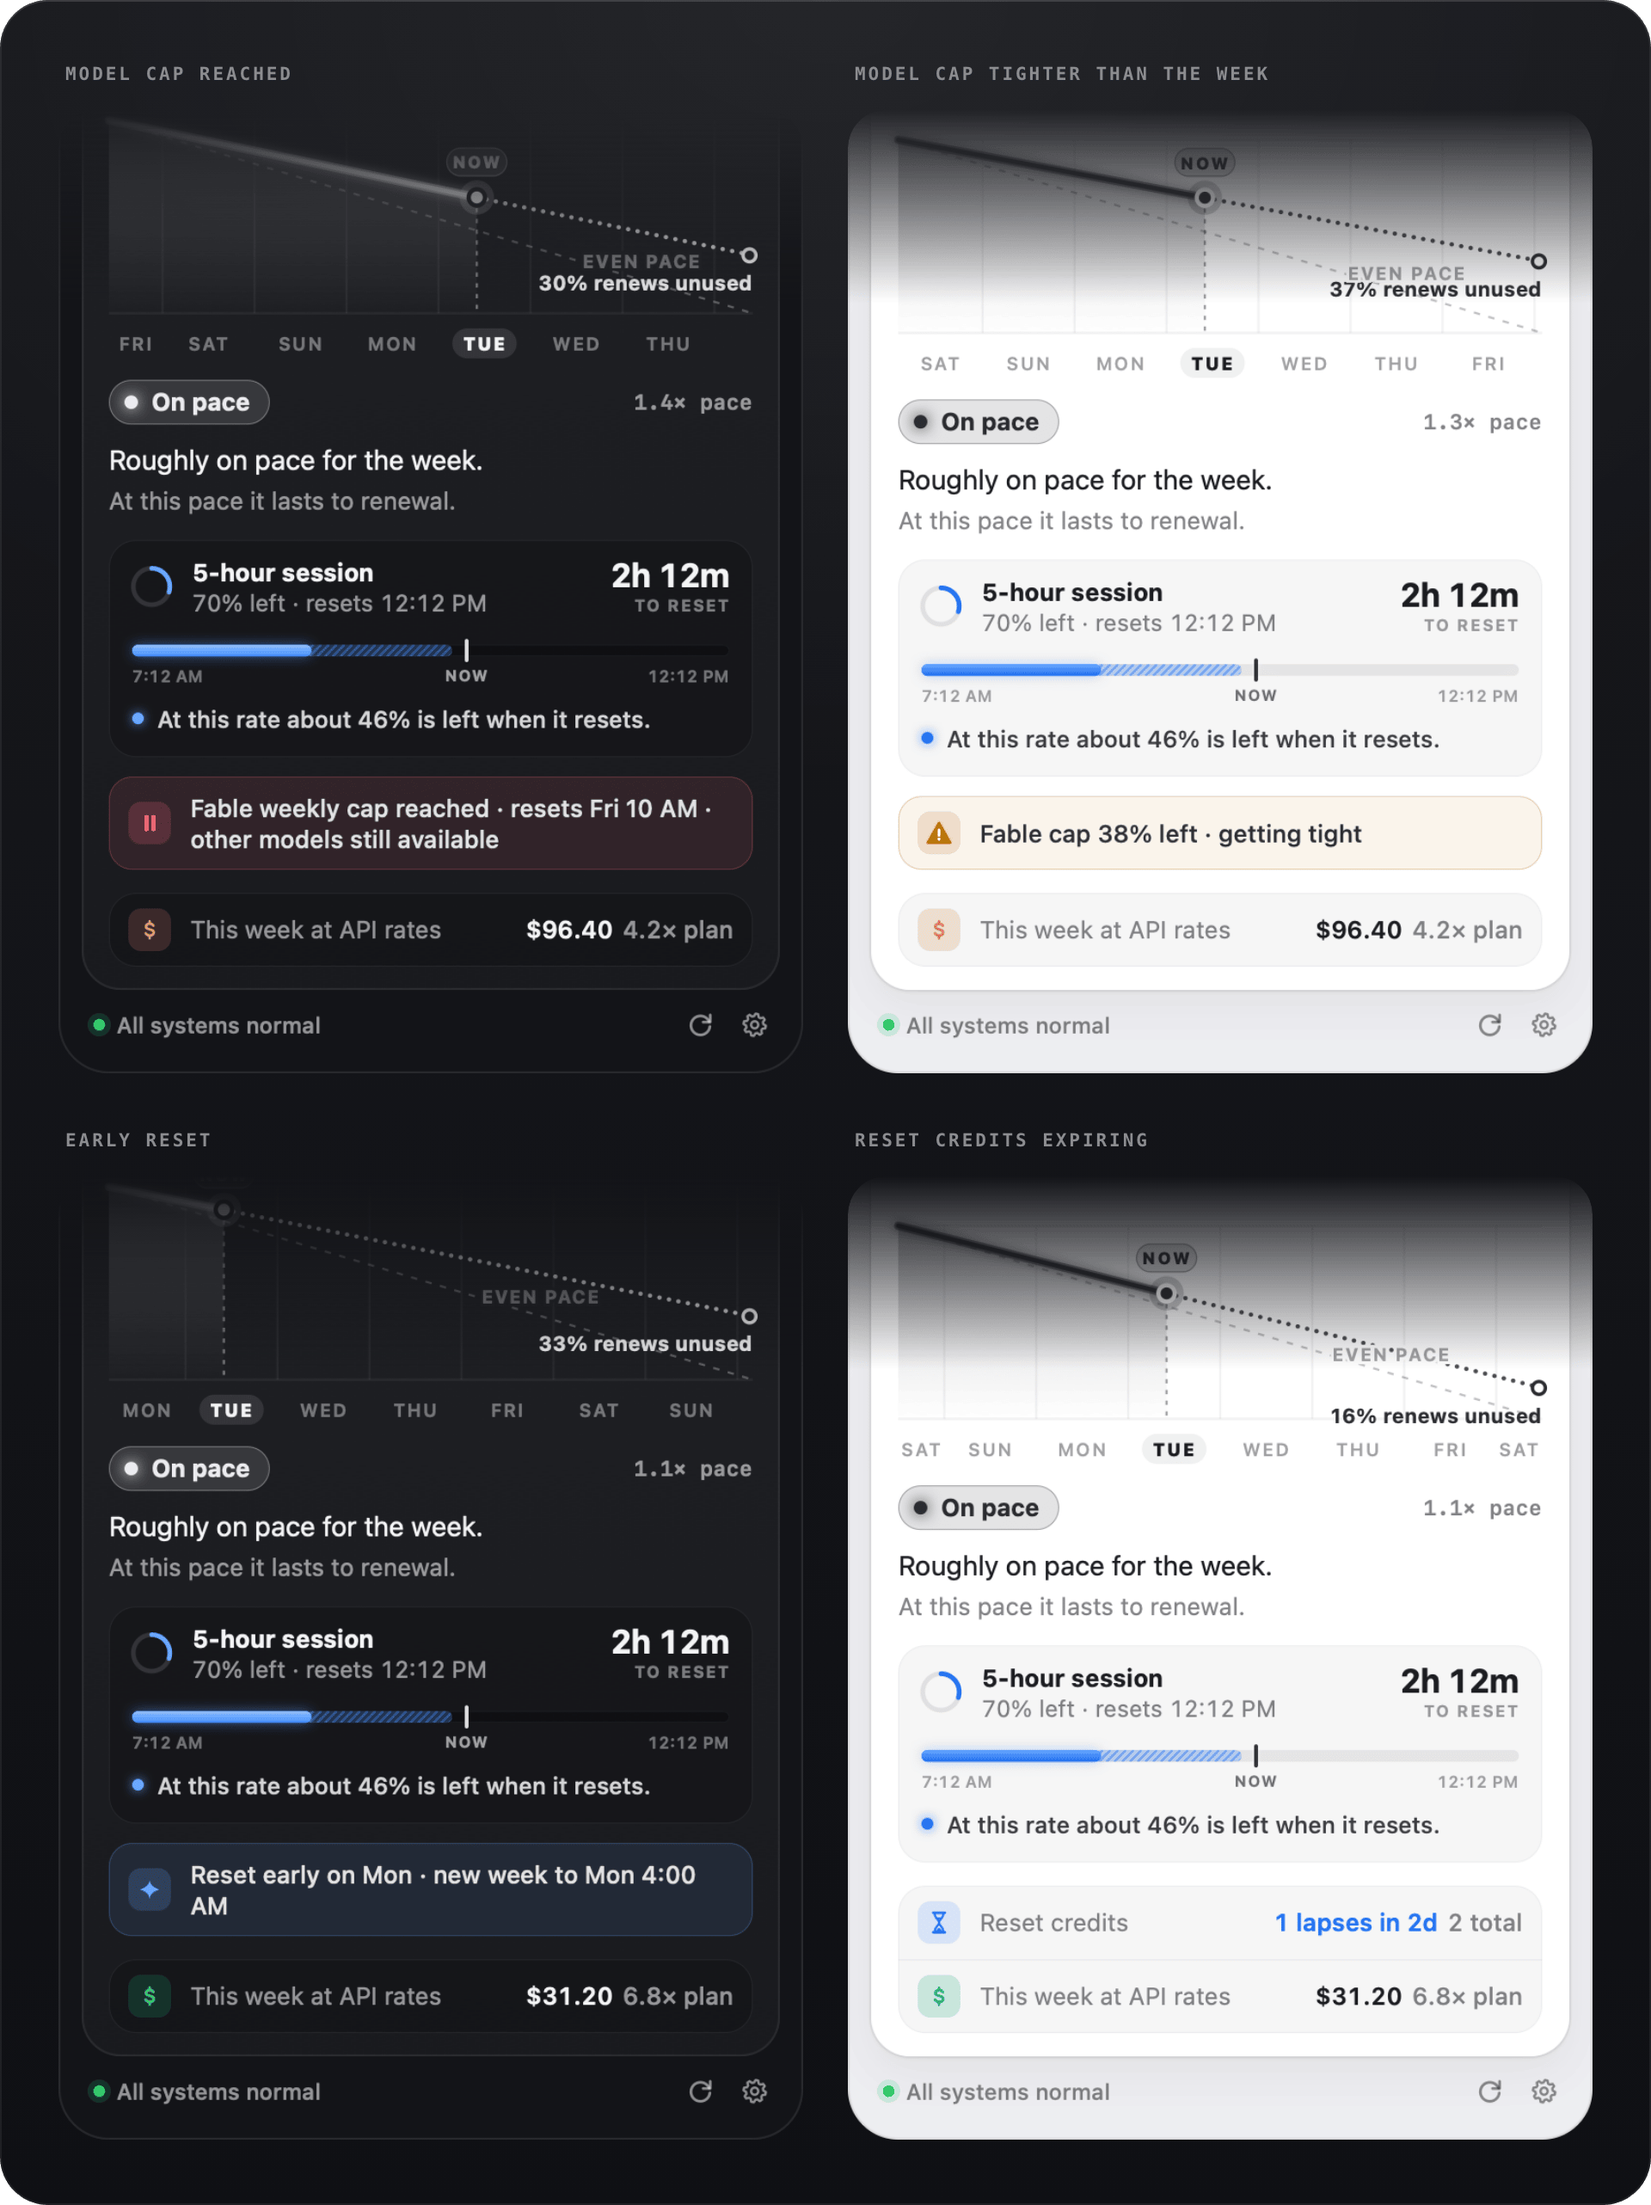
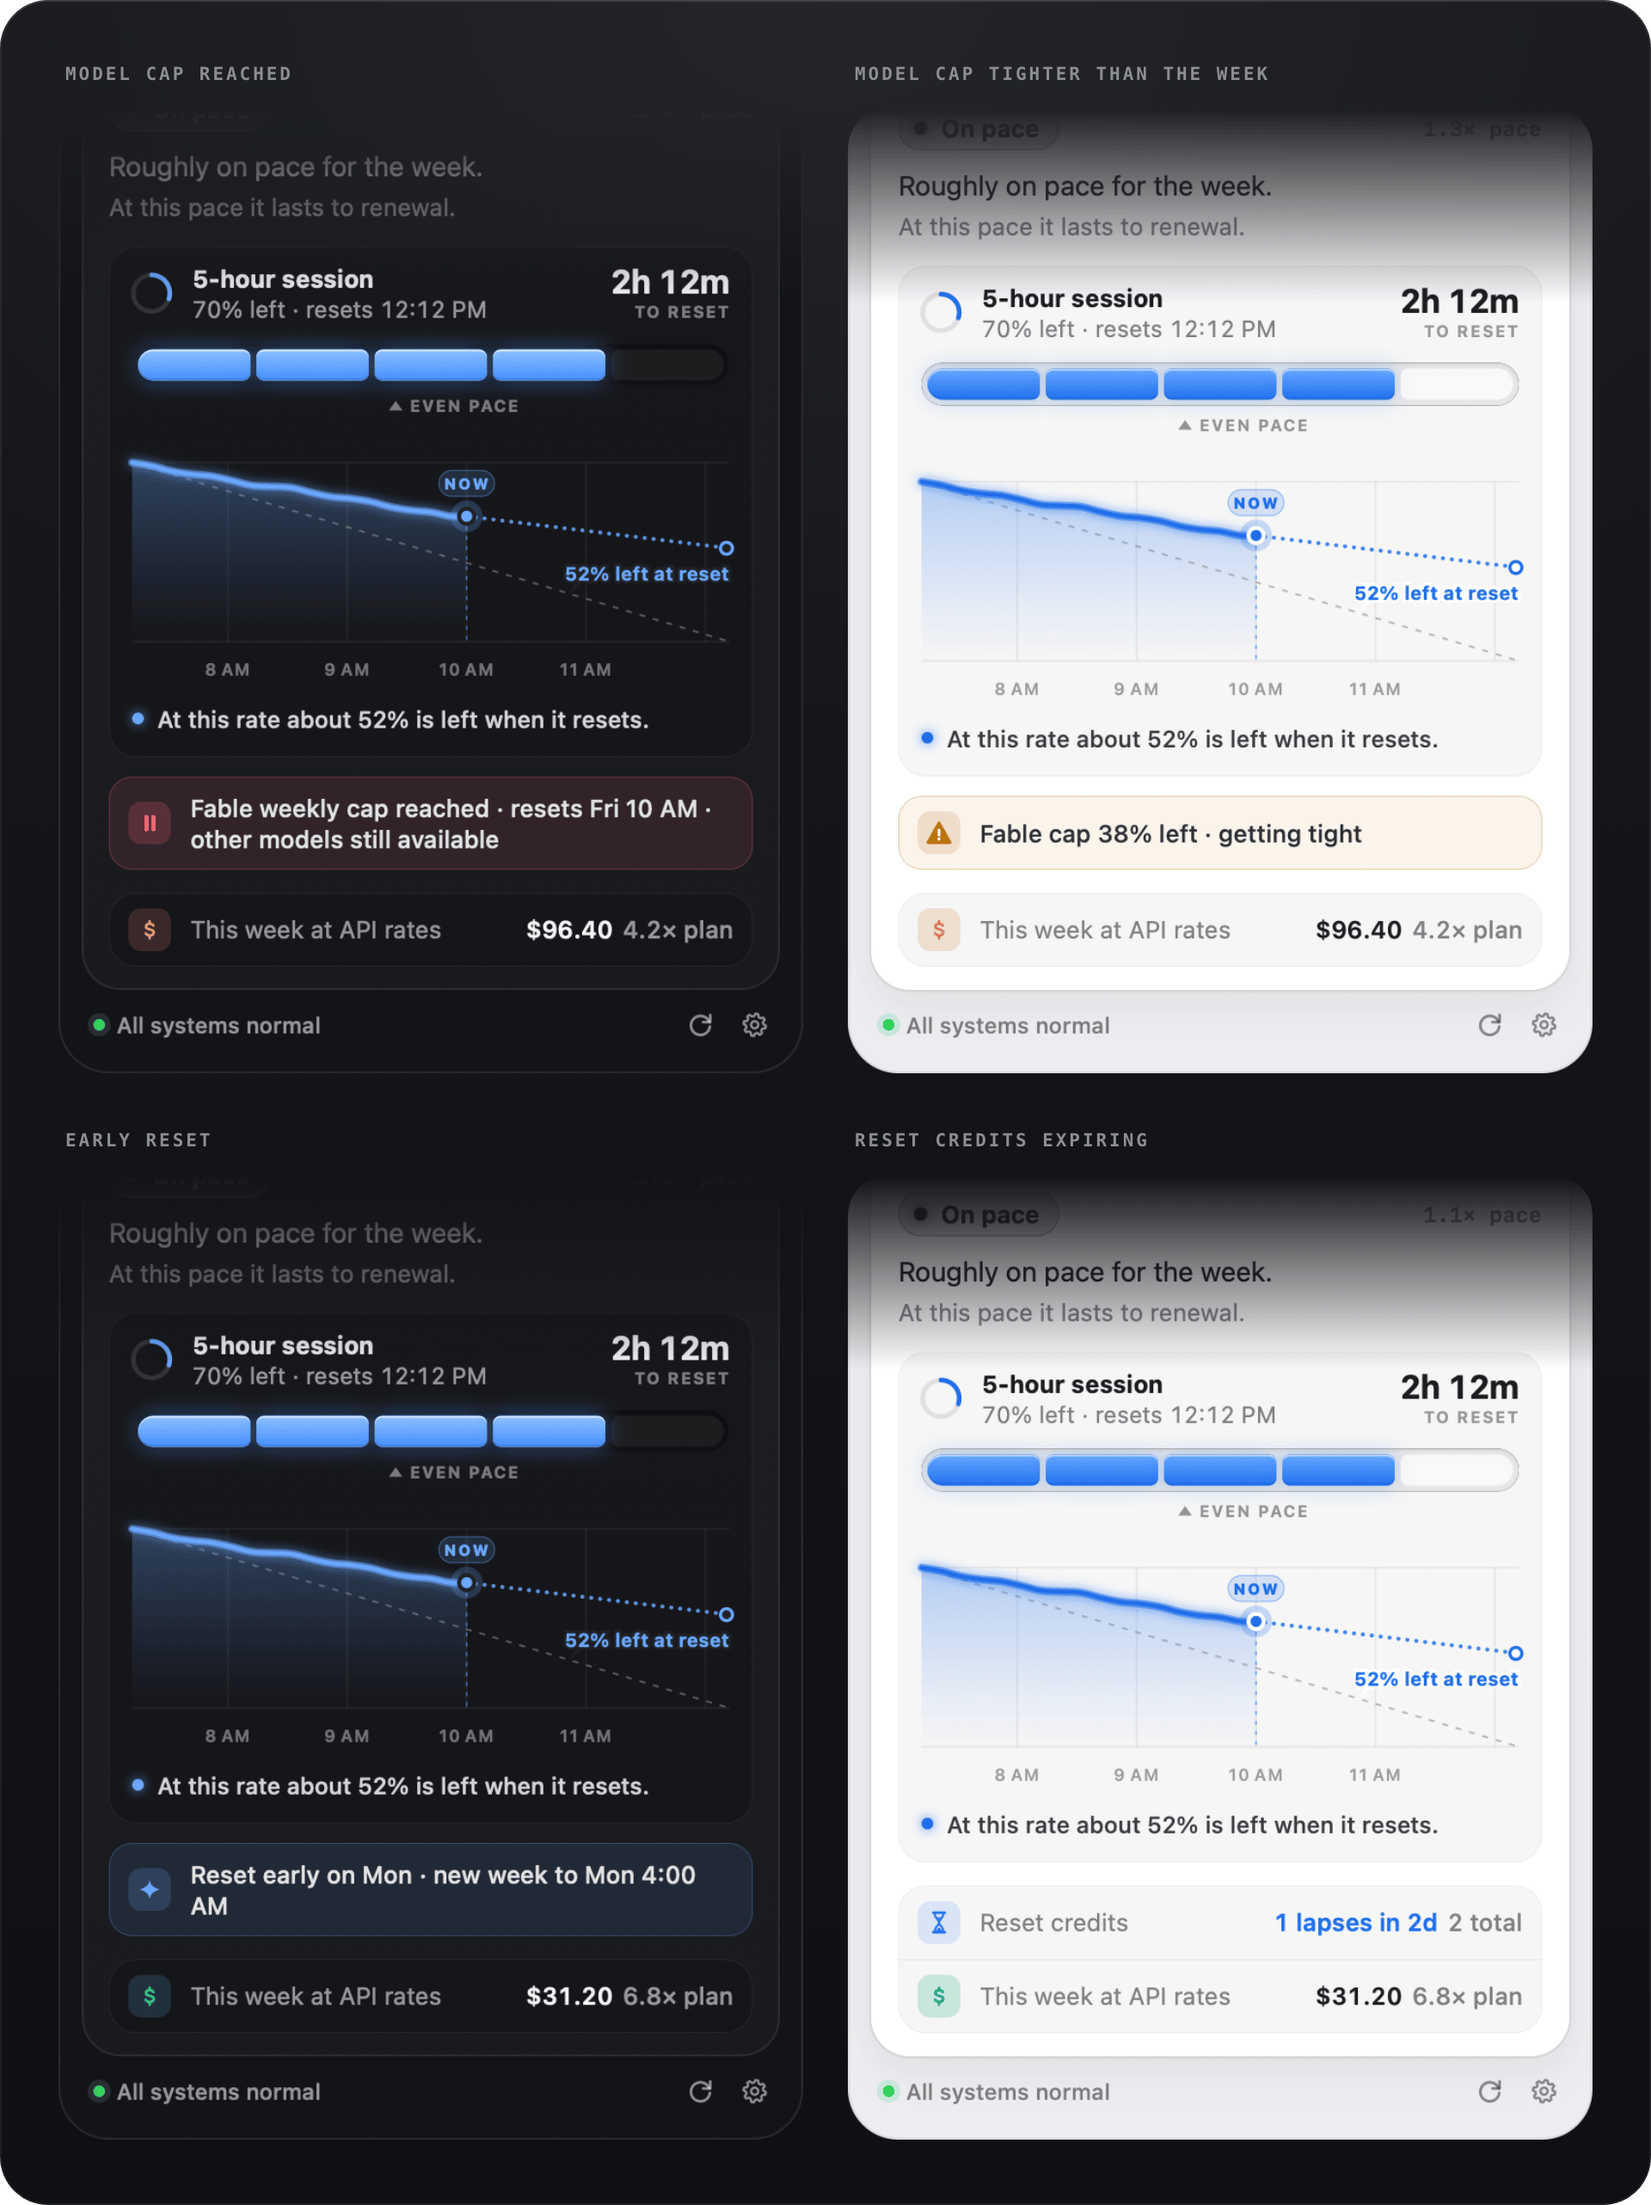
Refresh README and screenshots; keep 5-hour graph labels from overlapping

diff --git a/Sources/HeadroomApp/Popover/GlideChartRenderer.swift b/Sources/HeadroomApp/Popover/GlideChartRenderer.swift
@@ -143,6 +143,7 @@ enum GlideChartRenderer {
         // Projection.
         let ex = X(endT), ey = Y(endR)
         ctx.withState { ctx.setAlpha(0.85); ctx.stroke(line(nx, ny, ex, ey), col, width: 2, dash: [0.1, 4.4], cap: .round) }
+        var endRect = CGRect.null
         if g.runsOut {
             let halo = CGMutablePath(); halo.addEllipse(in: CGRect(x: ex - 9, y: ey - 9, width: 18, height: 18))
             ctx.fill(halo, warnCol.fade(0.18))
@@ -153,7 +154,11 @@ enum GlideChartRenderer {
             ctx.stroke(end, col, width: 1.6)
             if let label = g.endLabel {
                 // Under the end point, unless that runs into the axis labels.
-                Text(label, F.sf(9.5, 650), col).draw(x: W, baseline: ey + 16 > bot + 4 ? ey - 9 : ey + 16, align: .right, in: ctx)
+                let text = Text(label, F.sf(9.5, 650), col)
+                let baseline = ey + 16 > bot + 4 ? ey - 9 : ey + 16
+                let str = NSAttributedString(string: label, attributes: [.font: F.sf(9.5, 650), .foregroundColor: col])
+                drawOutlined(str, center: CGPoint(x: W - text.width / 2, y: baseline), outline: theme.cardSolid, ctx: ctx)
+                endRect = CGRect(x: W - text.width, y: baseline - 12, width: text.width, height: 16)
             }
         }
 
@@ -172,6 +177,8 @@ enum GlideChartRenderer {
 
         // EVEN PACE label in the emptier half, outlined in the card color.
         let evenAt = g.nowT > hours * 0.6 ? g.nowT * 0.75 : g.nowT + (hours - g.nowT) * 0.6
+        // Leave it out when it would sit on the end label; the dashed line reads on its own.
+        guard !CGRect(x: X(evenAt) - 30, y: Y(1 - evenAt / hours) - 14, width: 60, height: 16).intersects(endRect) else { return }
         let ly = Y(1 - evenAt / hours) - 6
         let label = NSMutableAttributedString(string: "EVEN PACE", attributes: [.font: F.sf(8.5, 650), .kern: 0.6, .foregroundColor: theme.chartLabel])
         drawOutlined(label, center: CGPoint(x: X(evenAt), y: ly), outline: theme.cardSolid, ctx: ctx)
@@ -237,8 +244,9 @@ enum GlideChartRenderer {
     private static func drawOutlined(_ s: NSAttributedString, center: CGPoint, outline: NSColor, ctx: CGContext) {
         let outlined = NSMutableAttributedString(attributedString: s)
         let range = NSRange(location: 0, length: outlined.length)
-        outlined.addAttributes([.strokeColor: outline, .strokeWidth: 3 / 8.5 * 100, .foregroundColor: outline], range: range)
-        let w = Text([Text(s.string, F.sf(8.5, 650), .black, kern: 0.6)]).width
+        let size = (s.attribute(.font, at: 0, effectiveRange: nil) as? NSFont)?.pointSize ?? 8.5
+        outlined.addAttributes([.strokeColor: outline, .strokeWidth: 3 / size * 100, .foregroundColor: outline], range: range)
+        let w = CTLineGetTypographicBounds(CTLineCreateWithAttributedString(s), nil, nil, nil)
         for str in [outlined as NSAttributedString, s] {
             let line = CTLineCreateWithAttributedString(str)
             ctx.saveGState()

diff --git a/Scripts/readme_media.py b/Scripts/readme_media.py
@@ -226,6 +226,14 @@ def main():
 .mb img { height: 22px; }
 .mb em { font: normal 500 13px -apple-system, system-ui; color: #F4F4F6; font-variant-numeric: tabular-nums; }""")
 
+        # Settings: the Pace Card and 5-hour sections, dark and light.
+        sw, sh = png_size(raw / "settings-3-dark.png")
+        set_h = round(cell_w * sh / sw)
+        body = "".join(f"<div>{eyebrow(t)}<div class='shot win'><img src='{raw}/settings-{n}.png'></div></div>"
+                       for t, n in (("Pace Card · meters and graphs", "3-dark"), ("5-hour session warning", "4-light")))
+        panel("settings", f'<div class="grid" style="grid-template-columns:1fr 1fr">{body}</div>', 960, grid_height(1, set_h), raw, work,
+              ".win { border-radius: 12px; box-shadow: 0 14px 34px rgba(0,0,0,.45); }")
+
         # Callouts: model caps, early reset, reset credits.
         calls = [("Model cap reached", "cap-empty-dark"), ("Model cap tighter than the week", "cap-tight-light"),
                  ("Early reset", "early-reset-dark"), ("Reset credits expiring", "credits-light")]

diff --git a/README.md b/README.md
@@ -51,6 +51,12 @@ Each provider gets five cells in your menu bar. **Blue** means you have room to 
 
 Add the percentage beside each meter, keep the 5-hour timer always visible, show only the most urgent provider, or let the cells track the 5-hour session instead of the week (marked with a small **5H**). **Whichever is tighter** switches over only while the session is the closer limit. Light, dark or system appearance, your call.
 
+## Settings, with a live preview
+
+<img src="media/settings.png" alt="Settings: the Pace Card section with meter and graph toggles beside a live card, and the 5-hour session section with the warning level and a sample alert">
+
+Settings looks and works like the welcome window. Each section shows a live preview of what it changes, so you see the card, menu bar or alert before you leave. Turn the meter and the graph on or off for the week and for the 5-hour session, set prices for your plan, and install the `headroom` command.
+
 ## Pace, not just a percentage
 
 <img src="media/pace.png" alt="The four pacing states: Plenty available, On pace, Getting tight, Very tight">
@@ -61,11 +67,11 @@ Add the percentage beside each meter, keep the 5-hour timer always visible, show
 
 <img src="media/session.png" alt="The 5-hour panel: not started, on track with a forecast, a heads-up that it runs out before the reset, amber and rose warnings, and paused until reset">
 
-The 5-hour session is usually the limit you hit first, so it gets its own panel on every card: how much is left, a timeline of the five hours with where you are now, and a forecast from your recent pace: *about 25% left when it resets*, or *runs out around 11:52 AM, 20m before the reset*. Once it crosses your warning level (75% by default, or 50, 60 or 90%) it moves to the top of the card and turns amber, then rose. At the limit it tells you exactly when you're back, and how much of the week is still waiting.
+The 5-hour session is usually the limit you hit first, so it gets its own panel on every card, built like the week: five cells for what's left with even pace marked, a graph of the five hours so far and where they're heading, and a forecast from your recent pace: *about 25% left when it resets*, or *runs out around 11:52 AM, 20m before the reset*. Once it crosses your warning level (75% by default, or 50, 60 or 90%) it moves to the top of the card and turns amber, then rose. At the limit it tells you exactly when you're back, and how much of the week is still waiting.
 
 <img src="media/sessions.png" alt="Recent 5-hour sessions in the Activity tab, showing each session's peak and which ones hit the limit">
 
-The Activity tab keeps your recent sessions, so a run of near-misses stands out. Optional notifications tell you when a session is nearly used, when you hit the limit, and the moment it's back. Prefer the old single row? Choose **Compact** in Settings.
+The Activity tab keeps your recent sessions, so a run of near-misses stands out. Optional notifications tell you when a session is nearly used, when you hit the limit, and the moment it's back. Prefer the old single row? Choose **A single row** in Settings.
 
 ## Caps, early resets and expiring credits
 
